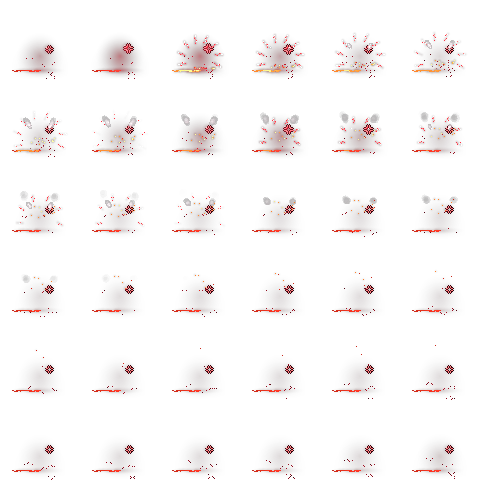
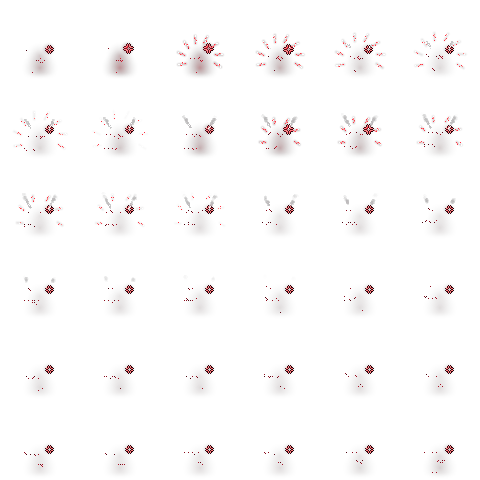
feat: 狂怒状态特效改用 pixelfx seething

diff --git a/docs/SKILL_SYSTEM.md b/docs/SKILL_SYSTEM.md
@@ -13,7 +13,7 @@
 
 剑士「热诚决斗」位于 `resources/passives/swordsman_zeal_duel.tres`：`PassiveDefinition.skill_hit_stacks_status` 指向 `swordsman_zeal` 状态，每次**技能伤害命中**施加一层；状态使用 `STACK` 叠加、持续 6 秒、上限 5 层，每层提供 5% 攻速。满 5 层时，`ZealDuelBehavior.modify_damage()` 让每次动作伤害额外 +5。普攻不叠层，DoT 周期伤害也不叠层；动作目标规则可用 `ActionTargetingDefinition.Selection.LOWEST_HP_ENEMY` 指定“范围内最低血量敌人”。
 
-精锐兽人「狂怒」位于 `resources/passives/elite_orc_rage.tres`：`PassiveDefinition.hp_threshold` 为 0.5，`hp_threshold_status` 指向不会自然到期的 `persistent` 状态 `elite_orc_rage`。`Unit` 在 `heal()` / `take_damage()` 结算后调用 `sync_conditional_passives()`，生命低于 50% 时施加、回到 50% 以上时移除；状态以 `StatModifierBehavior` 把 `attack_damage` 乘 1.5，并用 `lifesteal_bonus` 提供 0.1 吸血。伤害扣除护甲与护盾后，`Unit._apply_lifesteal()` 按实际伤害的该比例回复攻击者生命。状态特效 `scenes/fx/rage_status.tscn` 是 pixelfx `status/rage` 的“纯光环”版：导出时用空角色遮罩跳过替身身体，只保留怒纹、蒸汽、地裂和红光，精灵表由 `tools/export_rage_status.mjs` 生成。
+精锐兽人「狂怒」位于 `resources/passives/elite_orc_rage.tres`：`PassiveDefinition.hp_threshold` 为 0.5，`hp_threshold_status` 指向不会自然到期的 `persistent` 状态 `elite_orc_rage`。`Unit` 在 `heal()` / `take_damage()` 结算后调用 `sync_conditional_passives()`，生命低于 50% 时施加、回到 50% 以上时移除；状态以 `StatModifierBehavior` 把 `attack_damage` 乘 1.5，并用 `lifesteal_bonus` 提供 0.1 吸血。伤害扣除护甲与护盾后，`Unit._apply_lifesteal()` 按实际伤害的该比例回复攻击者生命。状态特效 `scenes/fx/rage_status.tscn` 是 pixelfx `status/seething` 的“纯光环”版：导出时用空角色遮罩跳过替身身体，只保留怒纹、蒸汽、应激线和红光，精灵表由 `tools/export_rage_status.mjs` 生成。
 
 
 骑士格挡使用通用 `GUARD` 效果；成功格挡后的奖励护盾由 `resources/actions/knight_block.tres` 的 `guard_reward_shield_ratio` 和 `guard_reward_shield_duration` 控制。其他单位可用不同奖励、格挡时长、触发条件与冷却形成差异，不需要在单位脚本中写分支。

diff --git a/README.md b/README.md
@@ -55,7 +55,7 @@
 ![精锐兽人狂怒](artifacts/elite_orc_rage.png)
 
 精锐兽人的被动：生命低于 50% 时攻击力 +50%，并获得 10% 吸血（按实际造成的伤害回复生命）。
-状态特效取自 pixelfx `status/rage`，导出时跳过替身身体，只保留怒纹、蒸汽、地裂与红光；
+状态特效取自 pixelfx `status/seething`，导出时跳过替身身体，只保留怒纹、蒸汽与应激线；
 生命回到阈值以上时，攻击加成、吸血和特效一起移除。重新导出见 `tools/export_rage_status.mjs`。
 
 ### 格挡
